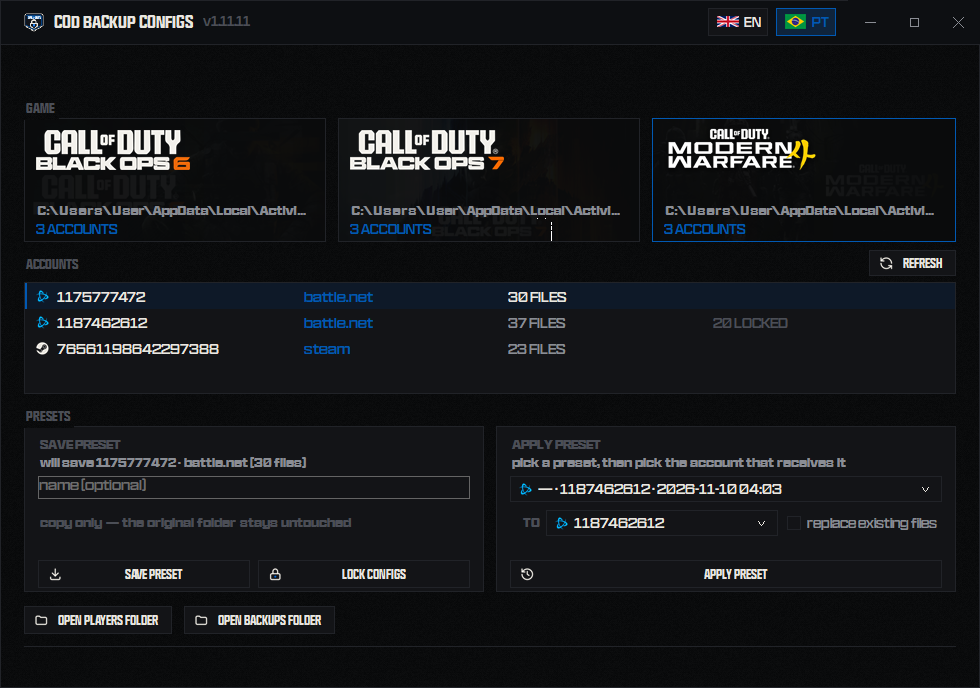
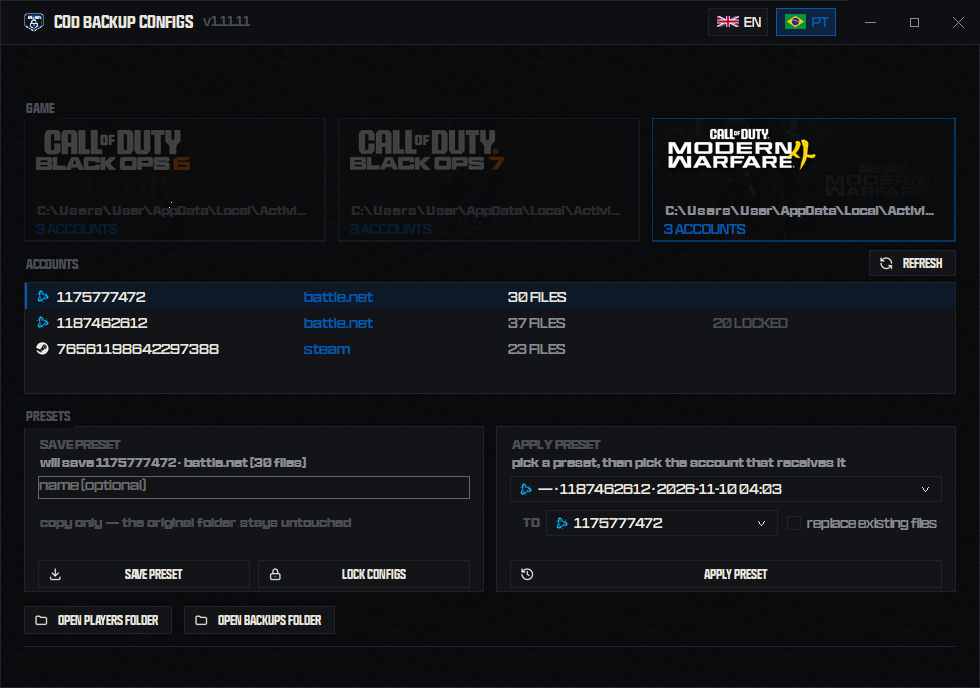
feat(ui): MW4-only scope, bo6/bo7 cards grayed out and unclickable
- GameInfo.Available flag (bo6/bo7 off, mw4 on) drives card state
- disabled cards paint through a heavy veil, keep found path/account
  counts, no hover, no browse button, clicks ignored
- startup falls back to first available game; SelectGame guards
- tip.game.off explains the grayed cards (EN/PT)
- docs: changelog game-scope note, README supported titles + quick
  start, PLAN goal; screenshot retaken showing grayed cards

diff --git a/src/CodBackupConfig/Widgets.cs b/src/CodBackupConfig/Widgets.cs
@@ -186,6 +186,7 @@ namespace CodBackupConfig
         Bitmap _cover;
         Bitmap _logo;
         bool _hot;
+        bool _avail;
         bool _found;
         int _accts;
         Button _browse;
@@ -198,10 +199,11 @@ namespace CodBackupConfig
         public GameCard(GameInfo g)
         {
             _g = g;
+            _avail = g.Available;
             SetStyle(ControlStyles.UserPaint | ControlStyles.AllPaintingInWmPaint |
                      ControlStyles.OptimizedDoubleBuffer | ControlStyles.ResizeRedraw, true);
             BackColor = Ui.Panel;
-            Cursor = Cursors.Hand;
+            Cursor = _avail ? Cursors.Hand : Cursors.Default;
             _cover = Assets.Img(g.Key + ".jpg");
             _logo = Assets.Img("logo-" + g.Key + ".png");
 
@@ -221,7 +223,7 @@ namespace CodBackupConfig
 
             MouseEnter += (s, e) => { _hot = true; Invalidate(); };
             MouseLeave += (s, e) => { _hot = false; Invalidate(); };
-            MouseClick += (s, e) => Clicked?.Invoke();
+            MouseClick += (s, e) => { if (_avail) Clicked?.Invoke(); };
         }
 
         public void SetSelected(bool v)
@@ -235,7 +237,7 @@ namespace CodBackupConfig
         {
             _found = found;
             _accts = accounts;
-            _browse.Visible = !found;
+            _browse.Visible = !found && _avail;
             LayoutBrowse();
             Invalidate();
         }
@@ -249,7 +251,7 @@ namespace CodBackupConfig
         {
             Graphics g = e.Graphics;
             Rectangle r = ClientRectangle;
-            using (var b = new SolidBrush(_hot ? Ui.PanelHi : Ui.Panel))
+            using (var b = new SolidBrush(_avail && _hot ? Ui.PanelHi : Ui.Panel))
                 g.FillRectangle(b, r);
 
             if (_found && _cover != null)
@@ -273,9 +275,6 @@ namespace CodBackupConfig
                     g.FillRectangle(lg, r);
                 }
             }
-
-            using (var p = new Pen(Selected ? Ui.Accent : _hot ? Ui.Dim : Ui.Line))
-                g.DrawRectangle(p, 0, 0, Width - 1, Height - 1);
 
             // the official lockup is the title; plain name is the fallback
             if (_found && _logo != null)
@@ -313,6 +312,16 @@ namespace CodBackupConfig
                     new Rectangle(Ui.X(12), Ui.X(40), Width - Ui.X(24), Ui.X(14)), Ui.Faint,
                     TextFormatFlags.NoPadding);
             }
+
+            // unavailable games paint through a heavy veil so the whole card
+            // reads grayed out; the border stays crisp on top
+            if (!_avail)
+            {
+                using var b = new SolidBrush(Color.FromArgb(195, Ui.Bg));
+                g.FillRectangle(b, r);
+            }
+            using (var p = new Pen(Selected ? Ui.Accent : (_avail && _hot) ? Ui.Dim : Ui.Line))
+                g.DrawRectangle(p, 0, 0, Width - 1, Height - 1);
         }
 
         // fill the rect, center-crop (css object-fit: cover)

diff --git a/src/CodBackupConfig/L10n.cs b/src/CodBackupConfig/L10n.cs
@@ -62,6 +62,7 @@ namespace CodBackupConfig
             ["err"]            = "error: ",
 
             ["tip.game"]       = "Pick which Call of Duty to work with. The game keeps one folder per logged-in account inside its players directory; this app only copies files between those folders and your backups.",
+            ["tip.game.off"]   = "Unavailable in this version — Modern Warfare 4 only.",
             ["tip.browse"]     = "Auto-detection failed? Pick the players folder manually.",
             ["tip.refresh"]    = "Rescan the players folder for accounts and lock state.",
             ["tip.backup"]     = "Save the selected account's configs as a preset under CodBackupConfigs\\backups, dated automatically. The original folder stays exactly as it is.",
@@ -131,6 +132,7 @@ namespace CodBackupConfig
             ["err"]            = "erro: ",
 
             ["tip.game"]       = "Escolha qual Call of Duty usar. O jogo guarda uma pasta por conta logada dentro do diretório de players; este app só copia arquivos entre essas pastas e seus backups.",
+            ["tip.game.off"]   = "Indisponível nesta versão — apenas Modern Warfare 4.",
             ["tip.browse"]     = "A detecção automática falhou? Escolha a pasta de players manualmente.",
             ["tip.refresh"]    = "Escaneia a pasta de players de novo, procurando contas e estado de trava.",
             ["tip.backup"]     = "Salva os configs da conta selecionada como preset com data em CodBackupConfigs\\backups. A pasta original continua exatamente como estava.",

diff --git a/src/CodBackupConfig/MainForm.cs b/src/CodBackupConfig/MainForm.cs
@@ -150,8 +150,9 @@ namespace CodBackupConfig
                 Prefs.Load();
                 L10n.Lang = Prefs.Lang;
                 ApplyTexts();
-                int i = _games.FindIndex(g => g.Key == Prefs.LastGame);
-                SelectGame(i < 0 ? 0 : i);
+                int i = _games.FindIndex(g => g.Key == Prefs.LastGame && g.Available);
+                if (i < 0) i = _games.FindIndex(g => g.Available);
+                SelectGame(i);
             };
             FormClosed += (s, e) =>
             {
@@ -1040,6 +1041,7 @@ namespace CodBackupConfig
 
         void SelectGame(int idx)
         {
+            if (idx < 0 || idx >= _games.Count || !_games[idx].Available) return;
             _selGame = idx;
             for (int i = 0; i < _cards.Length; i++) _cards[i].SetSelected(i == idx);
             Prefs.LastGame = SelGame().Key;
@@ -1355,7 +1357,7 @@ namespace CodBackupConfig
             for (int i = 0; i < _cards.Length; i++)
             {
                 _cards[i].BrowseButton.Text = T("card.browse");
-                Tip(_cards[i], "tip.game");
+                Tip(_cards[i], _games[i].Available ? "tip.game" : "tip.game.off");
                 Tip(_cards[i].BrowseButton, "tip.browse");
             }
 

diff --git a/src/CodBackupConfig/CodPaths.cs b/src/CodBackupConfig/CodPaths.cs
@@ -9,6 +9,7 @@ namespace CodBackupConfig
     {
         public string Key;      // bo6 | bo7 | mw4
         public string Name;
+        public bool Available;  // false = card shown grayed out, unclickable
         public string[] Roots;  // candidate players folders, in priority order
         public string Resolved; // picked root, null when nothing was found
     }
@@ -39,6 +40,7 @@ namespace CodBackupConfig
             {
                 Key = "bo6",
                 Name = "Black Ops 6",
+                Available = false,
                 Roots = new[]
                 {
                     OldGenRoot,
@@ -51,6 +53,7 @@ namespace CodBackupConfig
             {
                 Key = "bo7",
                 Name = "Black Ops 7",
+                Available = false,
                 Roots = new[]
                 {
                     NewGenRoot,
@@ -61,6 +64,7 @@ namespace CodBackupConfig
             {
                 Key = "mw4",
                 Name = "Modern Warfare 4",
+                Available = true,
                 Roots = new[]
                 {
                     NewGenRoot,

diff --git a/README.md b/README.md
@@ -38,7 +38,7 @@ Cod Backup Configs is **100% file-based and copy-only**. It never injects into g
 
 | Category | Supported | Details |
 | :--- | :--- | :--- |
-| **Call of Duty Titles** | **Black Ops 6** · **Black Ops 7** · **Modern Warfare 4** | Auto-detects `players` directories per title + manual folder picker fallback |
+| **Call of Duty Titles** | **Black Ops 6** · **Black Ops 7** · **Modern Warfare 4** | Auto-detects `players` directories per title + manual folder picker fallback. MW4 is active in this release; BO6/BO7 show grayed out, unclickable |
 | **PC Storefronts** | **Battle.net** · **Steam** · **Xbox PC** | Platform inferred from numeric account ID shape (`SteamID64`, `Battle.net`, Xbox) |
 | **Protected Configs** | Every settings file of an account (`.swp` swap files excluded) | Instant `ReadOnly` attribute toggle across all account files — `s.1.0.*`, `g.cod25.*`, `g.cod26.*`, whatever the title names them |
 
@@ -68,7 +68,7 @@ Cod Backup Configs is **100% file-based and copy-only**. It never injects into g
 ## 🚀 Quick Start
 
 1. Launch `Cod Backup Configs.exe` on **Windows 10 / 11 (64-bit)**.
-2. Select a detected game card (**BO6**, **BO7**, or **MW4**) — or click **choose folder…** if your `players` folder lives in a custom path.
+2. Select the game card (**MW4** — **BO6**/**BO7** show grayed out in this release) — or click **choose folder…** if your `players` folder lives in a custom path.
 3. Pick an account from the list:
    - **SAVE PRESET** — Saves the selected account's configs as a dated preset; it lands selected in the preset list right after, ready to apply.
    - **APPLY PRESET** — Pick a preset, choose the account that receives it from the TO dropdown (it follows your list selection), and apply.

diff --git a/CHANGELOG.md b/CHANGELOG.md
@@ -21,6 +21,13 @@ Plain-language preset workflow:
   scroll track and thumb — no white Win32 scrollbar, four full rows visible
   unmaximized.
 
+Game scope:
+
+- Black Ops 6 and Black Ops 7 cards are shown grayed out and unclickable:
+  this release only works with Modern Warfare 4. Detection still runs for
+  all three titles, so the disabled cards keep showing found paths and
+  account counts.
+
 ## [1.11.10] - 2026-11-10
 
 First public version.
